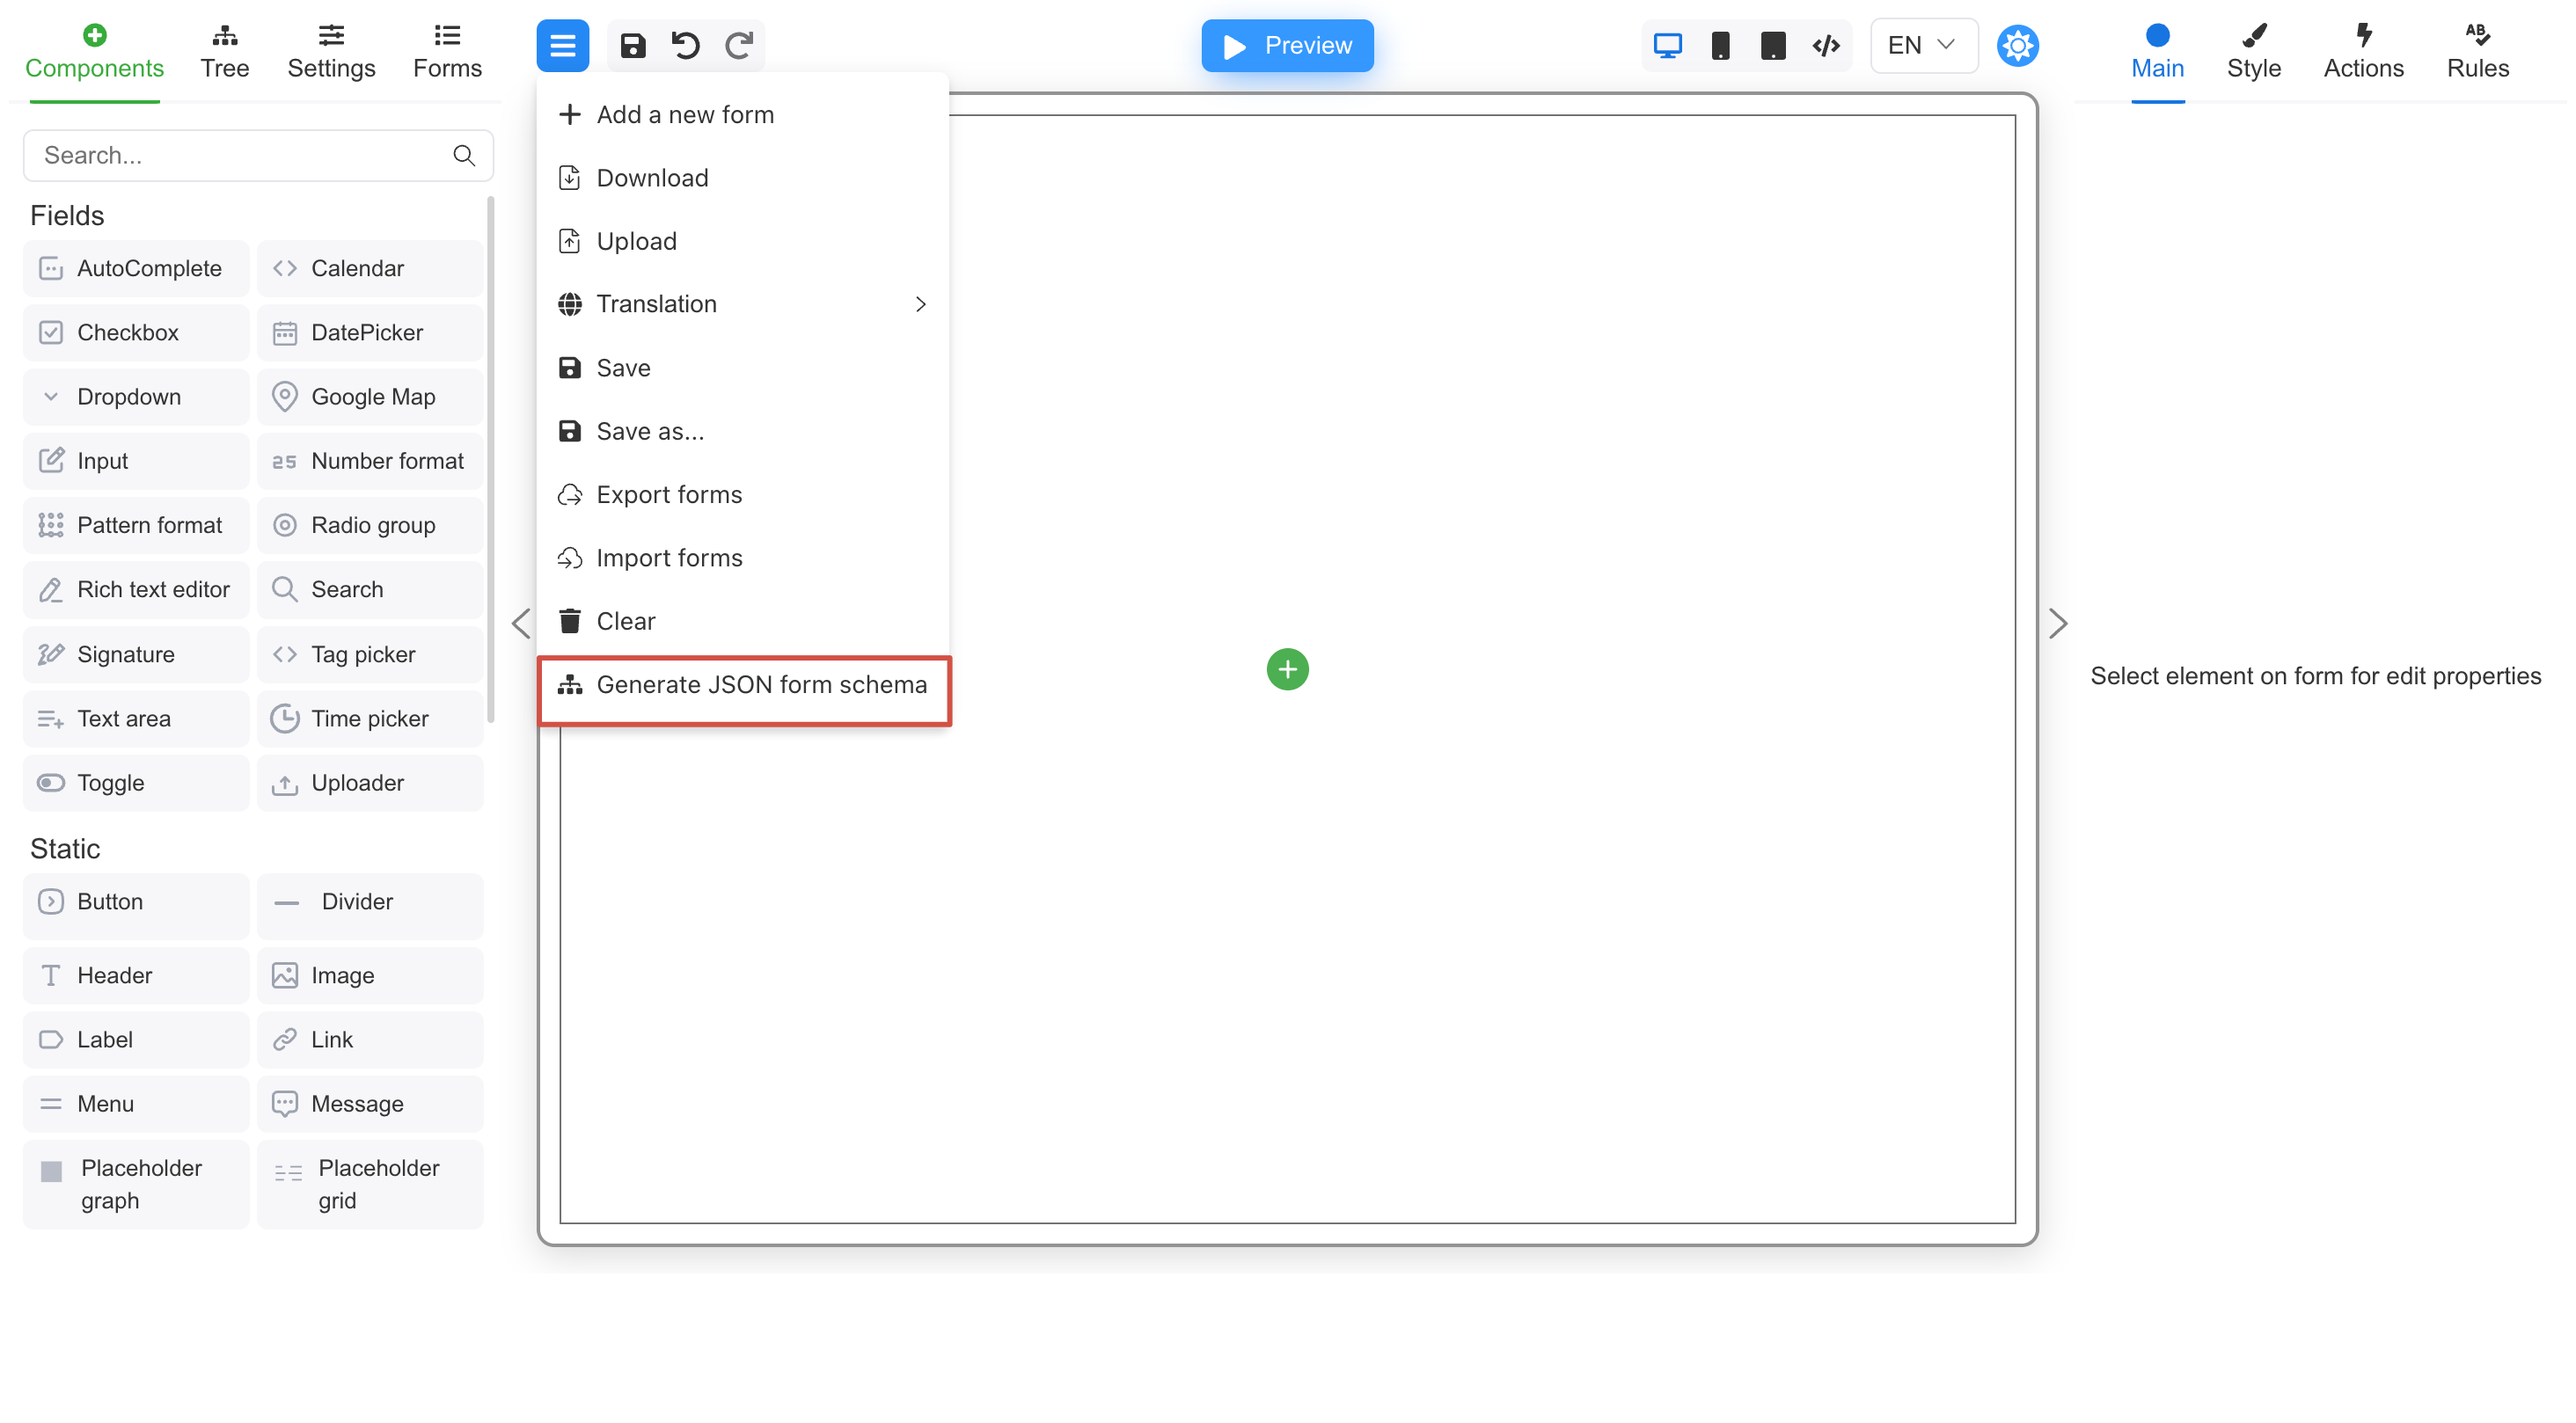
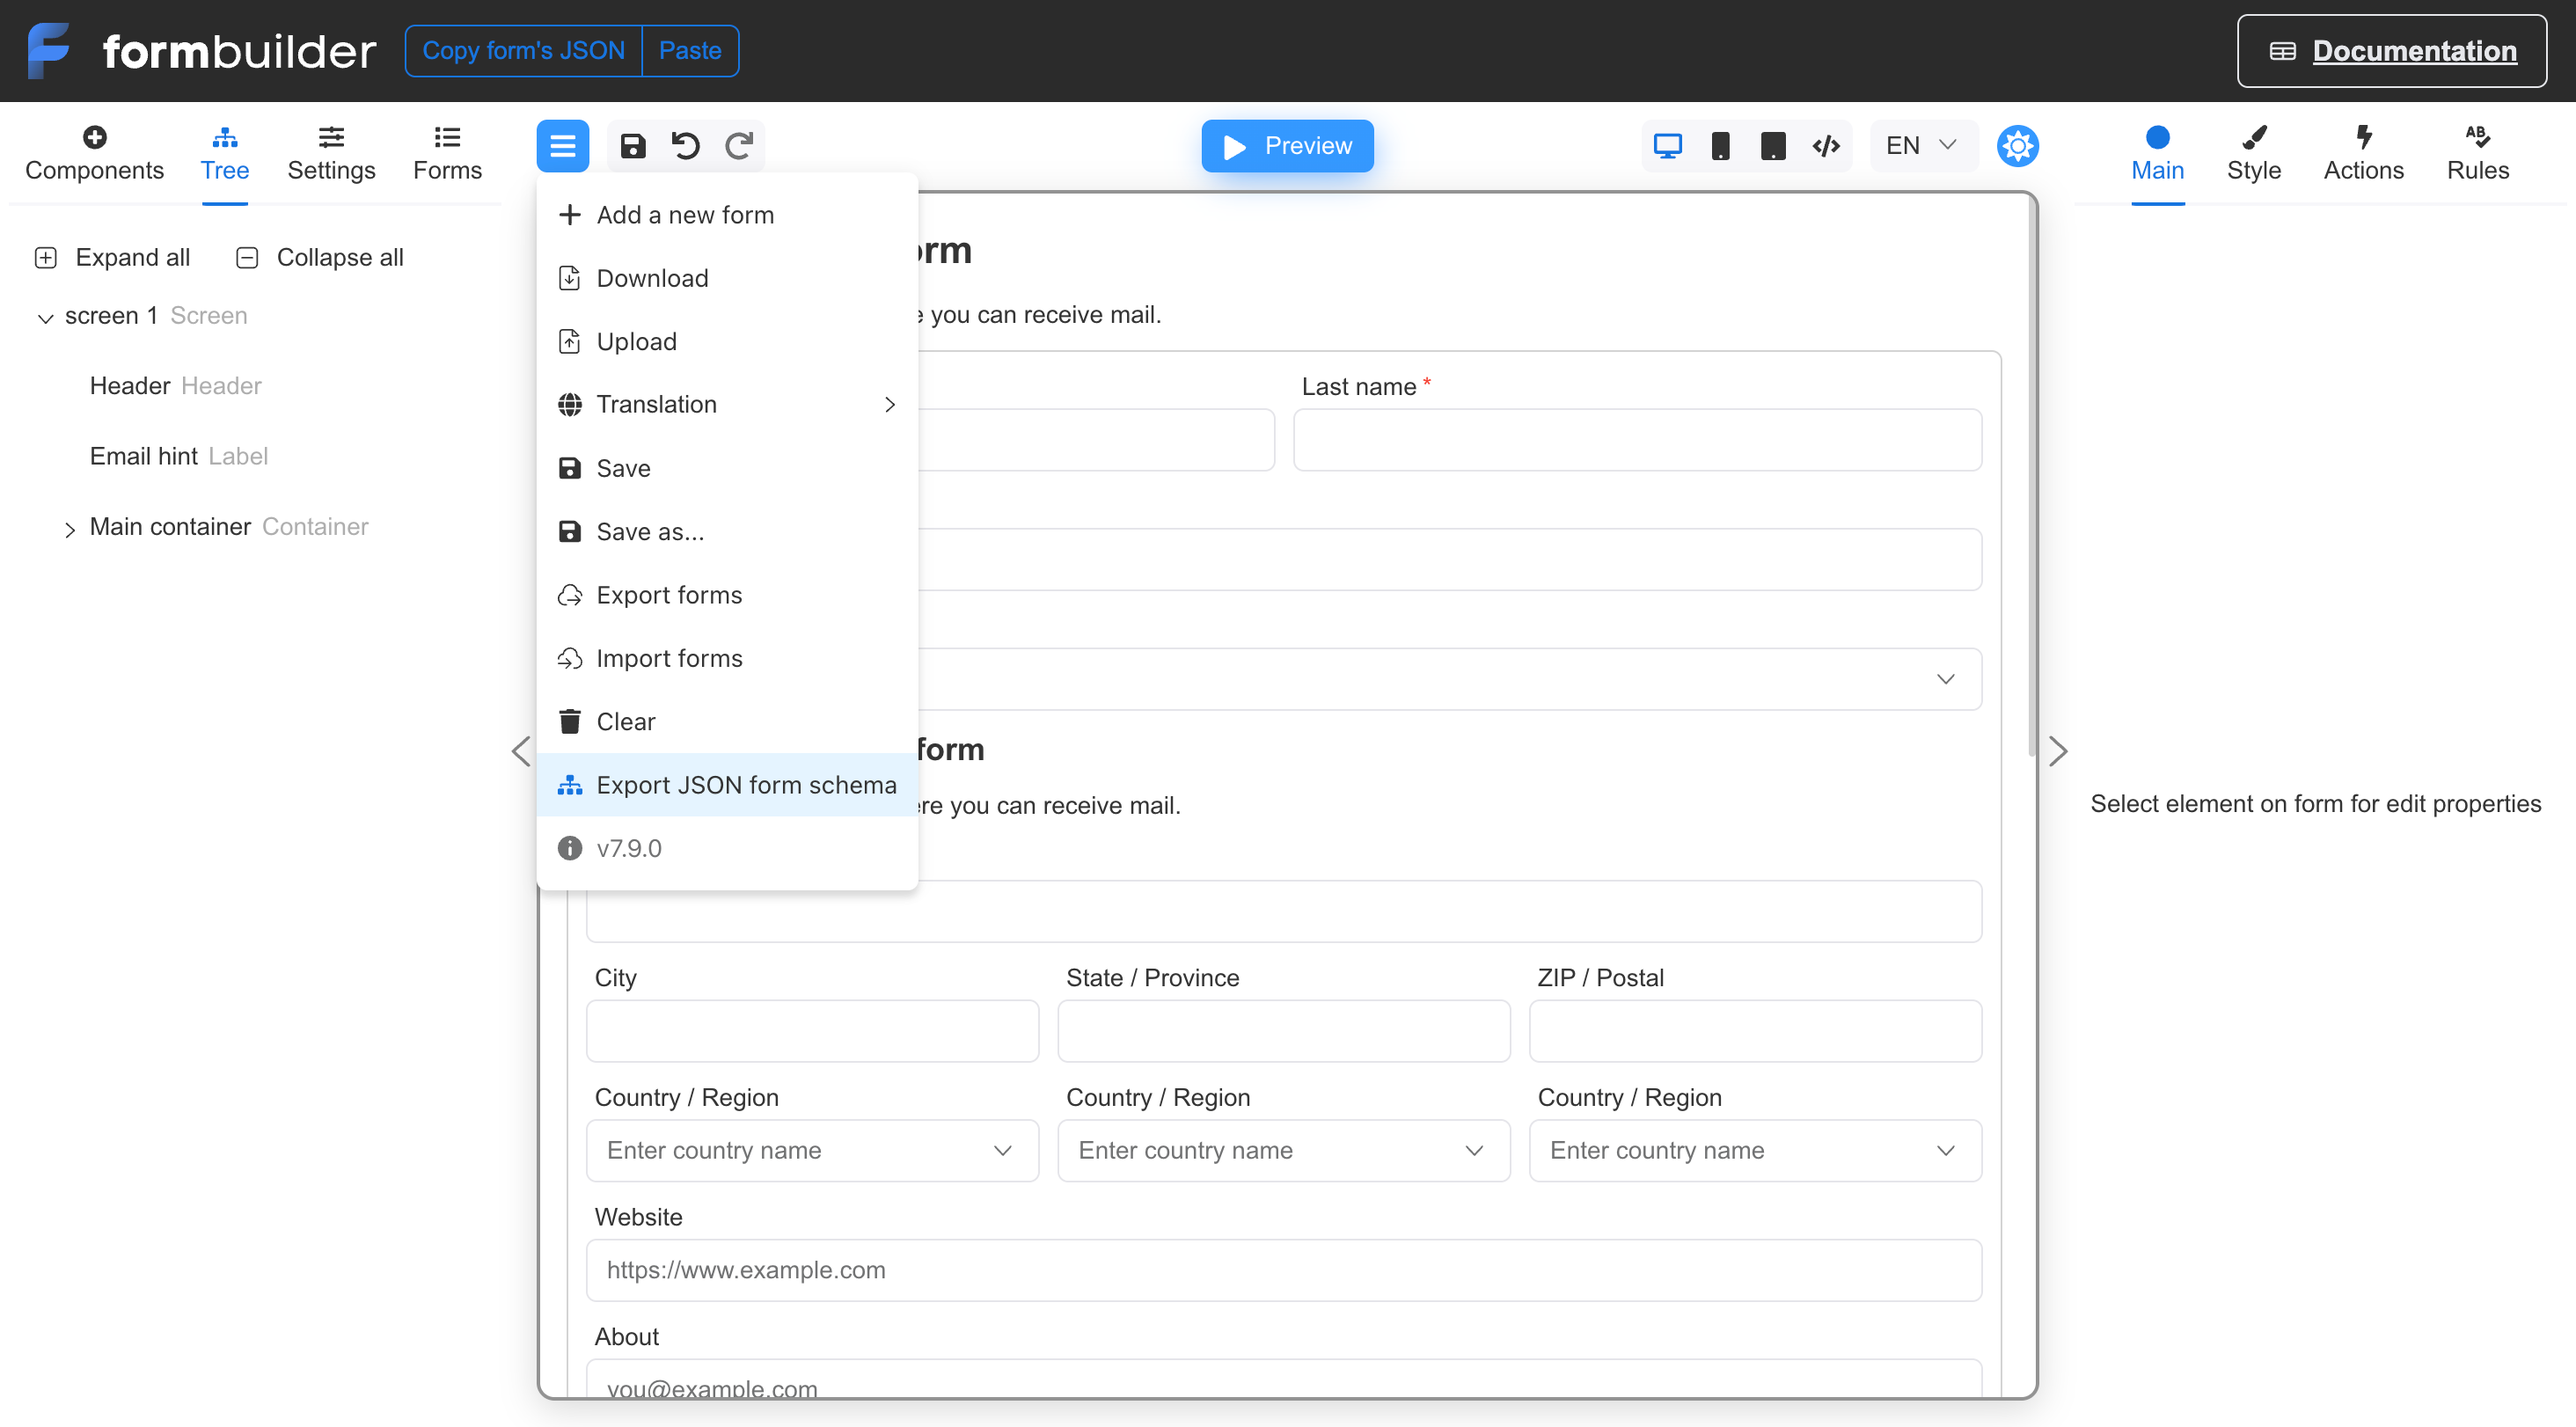
FE-1728 Rename Generate JSON form schema menu (#1592)

diff --git a/src/packages/apps/common/src/FormBuilderApp.tsx b/src/packages/apps/common/src/FormBuilderApp.tsx
@@ -1,21 +1,29 @@
 import {namedObserver} from '@react-form-builder/core'
+import type {GenerateJsonFormSchemaOptions} from '@react-form-builder/designer'
+import {createSchema} from '@react-form-builder/json-schema-generator'
 import {useMemo} from 'react'
 import {BuilderRefProvider} from './components/BuilderRefContext'
 import {BuilderViewProvider} from './components/BuilderViewContext'
+import {Footer} from './components/Footer'
 import {Header} from './components/Header'
 import {MuiBuilder} from './components/MuiBuilder'
 import {RSuiteBuilder} from './components/RSuiteBuilder'
-import {usePersistentView} from './utils/usePersistentView'
-import '../public/style.css'
-import {Footer} from './components/Footer'
 import {customization} from './utils/customization'
 import {licenseKey} from './utils/licenseKey'
 import type {FormBuilderAppProps} from './utils/types'
+import {usePersistentView} from './utils/usePersistentView'
+import '../public/style.css'
+
+const generateJsonFormSchema = (options: GenerateJsonFormSchemaOptions) => {
+  const {components, descriptions} = options
+  const schema = createSchema(components, descriptions)
+  return JSON.stringify(schema, undefined, 2)
+}
 
 const RawFormBuilderApp = ({appName = 'form-builder', ...props}: FormBuilderAppProps = {}) => {
   const [view, setView] = usePersistentView(appName)
   const providerValue = useMemo(() => ({view, setView}), [view, setView])
-  const commonProps = useMemo(() => ({licenseKey, customization, ...props}), [props])
+  const commonProps = useMemo(() => ({licenseKey, customization, generateJsonFormSchema, ...props}), [props])
 
   return (
     <BuilderViewProvider value={providerValue}>

diff --git a/src/packages/designer/src/features/ui/Header/components/Menu.tsx b/src/packages/designer/src/features/ui/Header/components/Menu.tsx
@@ -151,7 +151,7 @@ const RawMenuItems = () => {
     </Dropdown.Item>
       {builderStore.props.generateJsonFormSchema &&
         <Dropdown.Item onSelect={handleGenerateSchema} icon={sitemapIcon}>
-          {t('leftMenu.generateJsonFormSchema')}
+          {t('exportJsonFormSchema')}
         </Dropdown.Item>
       }
   </>

diff --git a/src/documentation/docs/features/forms-json.md b/src/documentation/docs/features/forms-json.md
@@ -302,8 +302,26 @@ The next set of data relates to localization.
 
 ## JSON schema
 
-You can generate a schema using the [createSchema](/api-reference/@react-form-builder/json-schema-generator/functions/createSchema) function
-from the [@react-form-builder/json-schema-generator](https://www.npmjs.com/package/@react-form-builder/json-schema-generator) package.
+You have the option to generate a JSON schema for your set of components used in the form. After generating the schema, you can connect it
+to your code editor and validate the JSON form using the IDE. Generation is performed using the
+[createSchema](/api-reference/@react-form-builder/json-schema-generator/functions/createSchema) function from the
+[@react-form-builder/json-schema-generator](https://www.npmjs.com/package/@react-form-builder/json-schema-generator) package.
+
+```typescript
+import {builderViewWithCss, components, rSuiteComponentsDescriptions} from '@react-form-builder/components-rsuite'
+import {createSchema} from '@react-form-builder/json-schema-generator'
+
+function generateJsonFormSchema() {
+  // or use your components
+  const myComponents = components
+  // or use your component descriptions
+  const myDescriptions = rSuiteComponentsDescriptions
+  const schema = createSchema(myComponents, [myDescriptions])
+  return JSON.stringify(schema, undefined, 2)
+}
+```
+
+![Form's JSON 07](/assets/forms-json/forms-json-07.png)
 
 You can also enable JSON schema generation from the Designer:
 
@@ -330,3 +348,7 @@ export const App = () => {
 After that, the menu item for downloading JSON schema will be available.
 
 ![Form's JSON 05](/assets/forms-json/forms-json-05.png)
+
+The built-in JSON form editor will also use a JSON schema:
+
+![Form's JSON 06](/assets/forms-json/forms-json-06.png)
